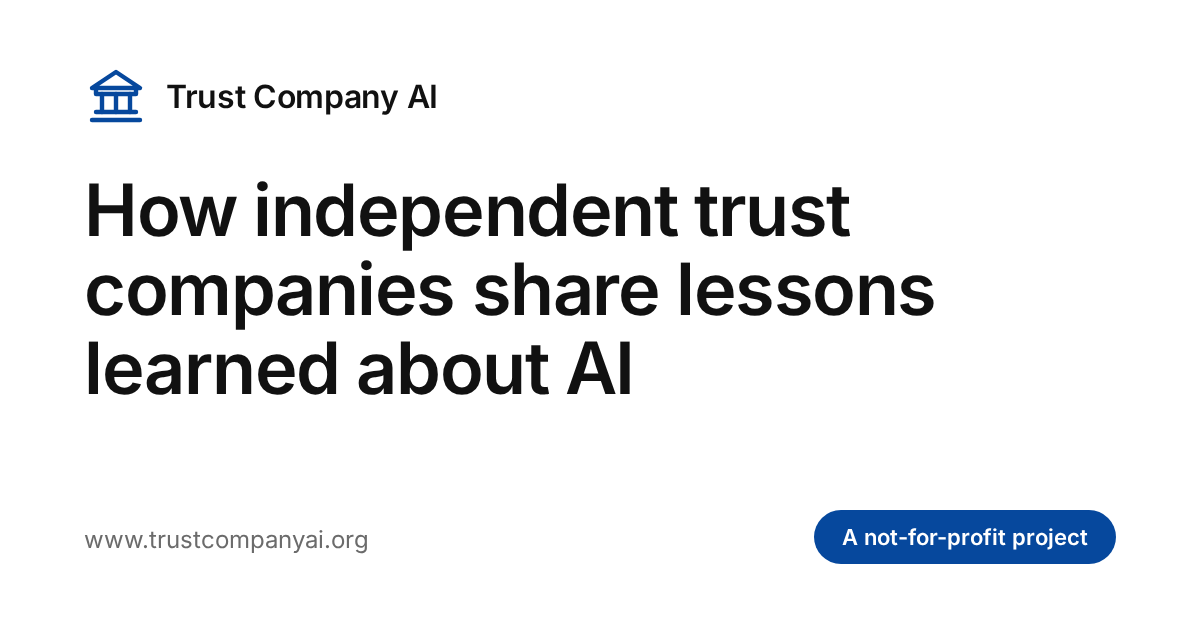
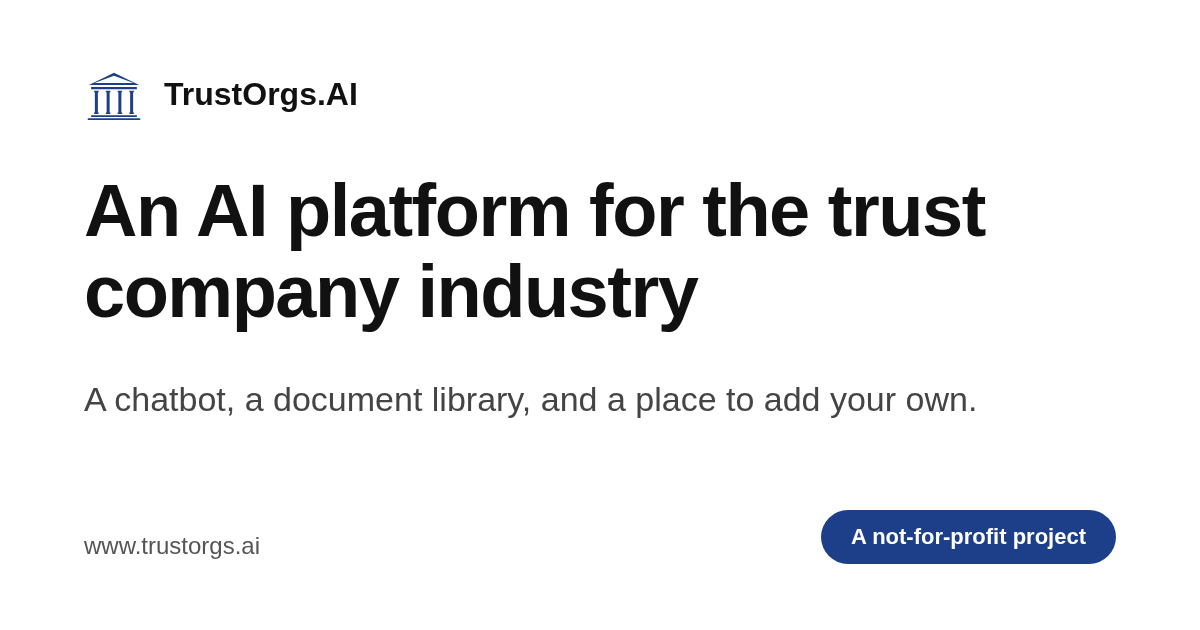
Meta: page description and share card

diff --git a/index.html b/index.html
@@ -7,18 +7,18 @@
     <link rel="apple-touch-icon" href="/apple-touch-icon.png" />
     <meta name="viewport" content="width=device-width, initial-scale=1.0, maximum-scale=1" />
     <title>TrustOrgs.AI</title>
-    <meta name="description" content="The Trust Company AI Interest Group shares lessons learned and best practices regarding foundational AI infrastructure on which companies do not compete." />
+    <meta name="description" content="An AI platform for the trust company industry: a chatbot that answers from documents contributed by trust-company leadership, plus the library behind it." />
     <meta property="og:type" content="website" />
     <meta property="og:site_name" content="TrustOrgs.AI" />
     <meta property="og:title" content="TrustOrgs.AI" />
-    <meta property="og:description" content="How independent trust companies share lessons learned about AI infrastructure &amp; governance" />
+    <meta property="og:description" content="An AI platform for the trust company industry: a chatbot that answers from documents contributed by trust-company leadership, plus the library behind it." />
     <meta property="og:url" content="https://www.trustcompanyai.org/" />
     <meta property="og:image" content="https://www.trustcompanyai.org/og.png" />
     <meta property="og:image:width" content="1200" />
     <meta property="og:image:height" content="630" />
     <meta name="twitter:card" content="summary_large_image" />
     <meta name="twitter:title" content="TrustOrgs.AI" />
-    <meta name="twitter:description" content="How independent trust companies share lessons learned about AI infrastructure &amp; governance" />
+    <meta name="twitter:description" content="An AI platform for the trust company industry: a chatbot that answers from documents contributed by trust-company leadership, plus the library behind it." />
     <meta name="twitter:image" content="https://www.trustcompanyai.org/og.png" />
   </head>
   <body>
